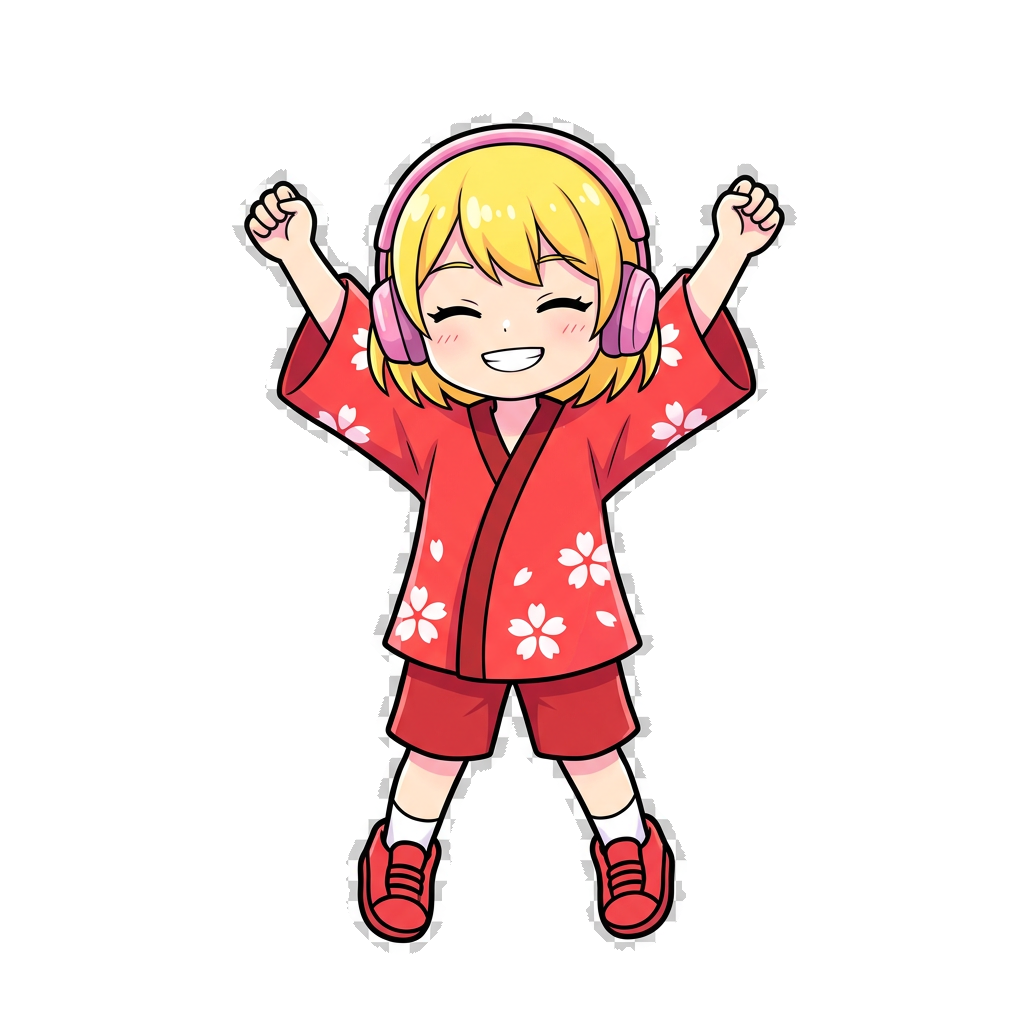
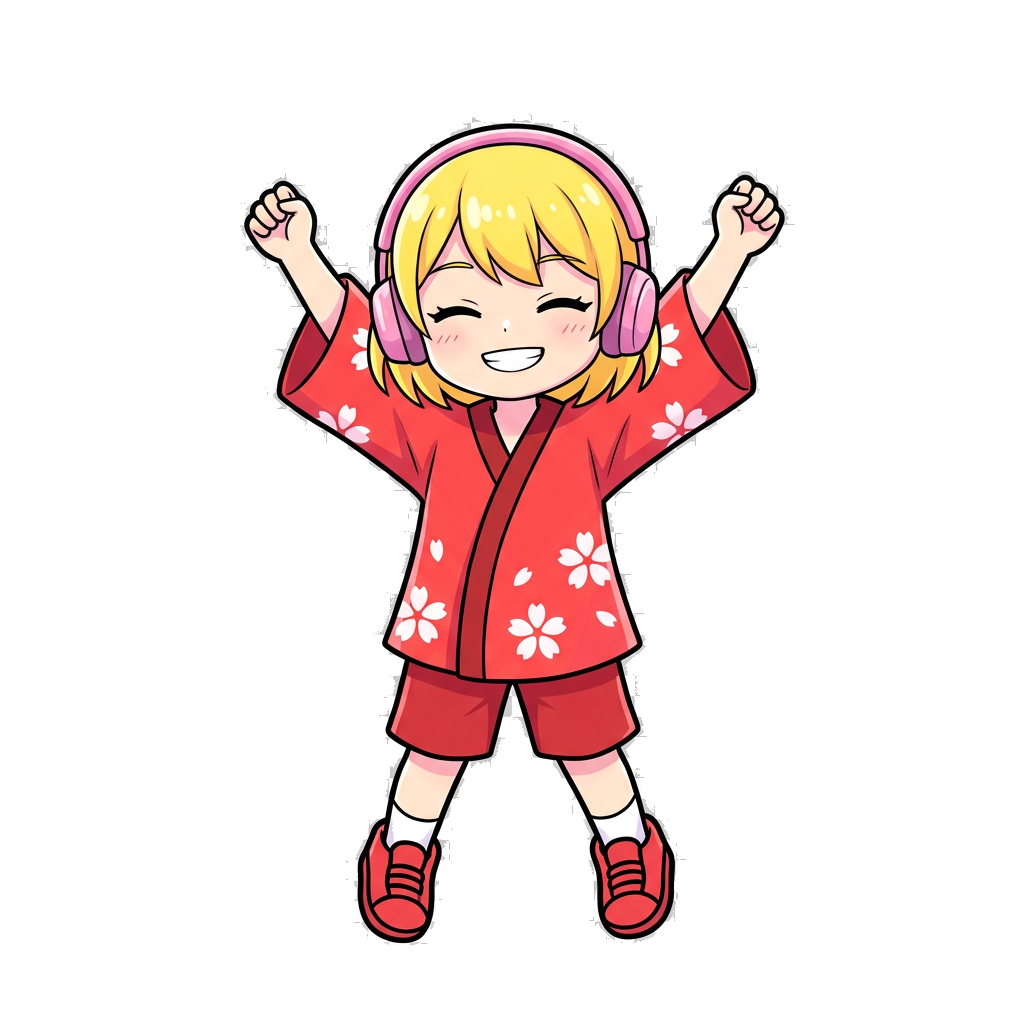
fix(assets): スプライト輪郭の白いハロー除去 (21 PNG)
`scripts/clean-white-halo.py` を追加し、22 PNG (title-logo は変化なし) に適用。
キャラ輪郭周辺 8px 以内の「ほぼ白 (RGB>=200) かつ低彩度 (gray)」ピクセルを
透明化することで、AI 生成 + remove-checker-bg.py の靴保護 12px dilation の
副作用で残っていた白いギザギザ輪郭を除去。

## 削除量
- NPC: 6.2-9.1% (元の白ハロー多)
- ダンスポーズ: 4.7-9.1%
- 通常ポーズ: 3.1-4.7%
- title-logo: 0% (alpha 隣接無し)

## 保護対象
- キャラ内部の白色 (目のハイライト・歯) → bg と非隣接なので影響なし
- 黒線周辺の中明度グレー (anti-alias) → RGB>=200 条件で除外
- 肌色・頬の薄ピンク → is_gray (RGB差<20) 条件で除外

diff --git a/scripts/clean-white-halo.py b/scripts/clean-white-halo.py
@@ -1,0 +1,65 @@
+"""remove-checker-bg.py 適用後 PNG に残る「白いハロー輪郭」を除去する後処理。
+
+AI 生成画像 (nano-banana) はキャラ輪郭の外側に anti-alias の白ピクセルを描き込む。
+remove-checker-bg.py の靴保護ロジック (12px dilation) がこれをキャラの一部として
+救済してしまうため、結果的に白いギザギザ輪郭が残る。
+
+本スクリプトは「alpha=0 領域に隣接する 1-N px 以内の、ほぼ白かつグレー (彩度低) な
+ピクセル」を選択的に透明化する。キャラ内部の白色 (歯/目のハイライト/靴の白) は
+bg と隣接しないため保護される。
+
+Usage:
+  python3 scripts/clean-white-halo.py public/assets/images/tadakayo-front-idle.png
+  python3 scripts/clean-white-halo.py public/assets/images/*.png
+  # iterations / 白判定閾値の調整:
+  HALO_ITER=5 HALO_RGB_MIN=210 python3 scripts/clean-white-halo.py <files>
+"""
+from __future__ import annotations
+
+import os
+import sys
+from pathlib import Path
+
+import numpy as np
+from PIL import Image
+from scipy.ndimage import binary_dilation  # type: ignore[import-untyped]
+
+
+def clean_white_halo(path: Path, iterations: int, rgb_min: int) -> tuple[int, int]:
+    img = Image.open(path).convert("RGBA")
+    arr = np.array(img)
+
+    r = arr[:, :, 0].astype(int)
+    g = arr[:, :, 1].astype(int)
+    b = arr[:, :, 2].astype(int)
+    a = arr[:, :, 3].astype(int)
+
+    bg = a == 0
+    char = ~bg
+
+    # bg を iterations px 膨張させた領域から元の bg を引くと「キャラ側のエッジ帯」になる
+    edge_zone = binary_dilation(bg, iterations=iterations) & char
+
+    is_gray = (np.abs(r - g) < 20) & (np.abs(g - b) < 20) & (np.abs(r - b) < 20)
+    is_near_white = (r >= rgb_min) & (g >= rgb_min) & (b >= rgb_min)
+    halo = edge_zone & is_gray & is_near_white
+
+    cleared = int(halo.sum())
+    arr[halo, 3] = 0
+    Image.fromarray(arr).save(path, optimize=True)
+    return cleared, int(char.sum())
+
+
+def main(paths: list[str]) -> None:
+    iterations = int(os.environ.get("HALO_ITER", "4"))
+    rgb_min = int(os.environ.get("HALO_RGB_MIN", "200"))
+    print(f"# iterations={iterations} rgb_min={rgb_min}")
+    for p in paths:
+        path = Path(p)
+        cleared, char_total = clean_white_halo(path, iterations, rgb_min)
+        ratio = cleared / char_total * 100 if char_total else 0
+        print(f"{path.name}: cleared {cleared:,} / char {char_total:,} px ({ratio:.2f}%)")
+
+
+if __name__ == "__main__":
+    main(sys.argv[1:])
